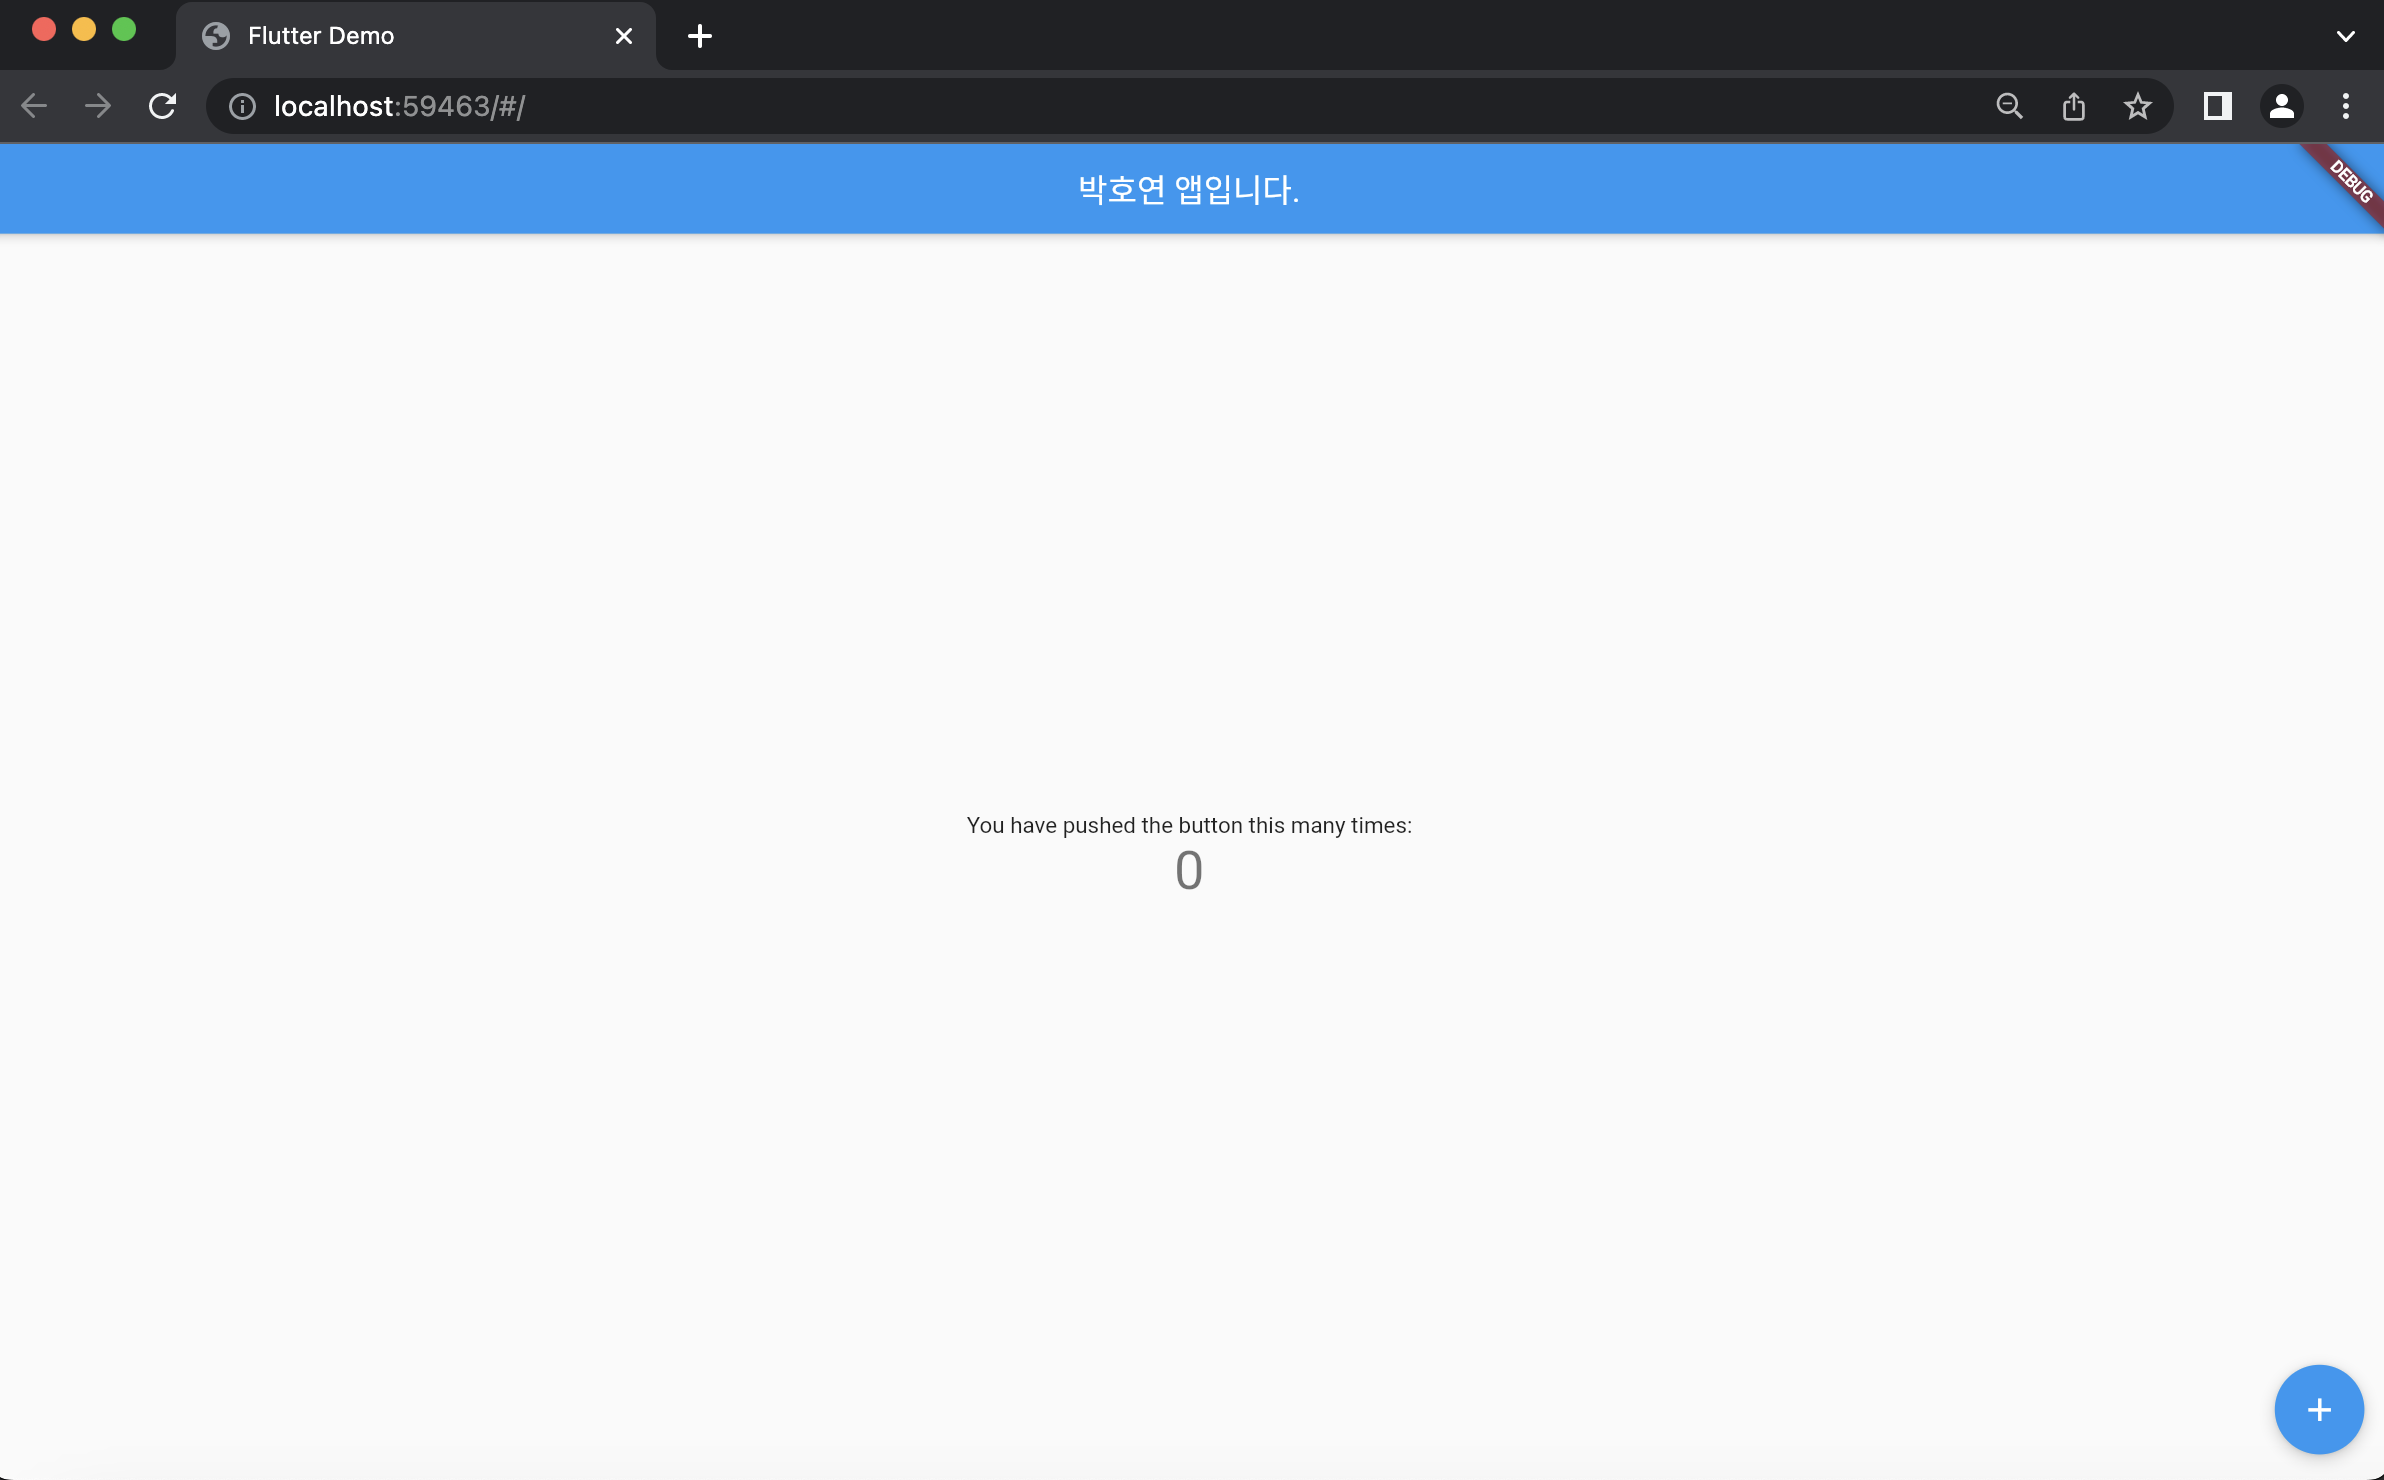
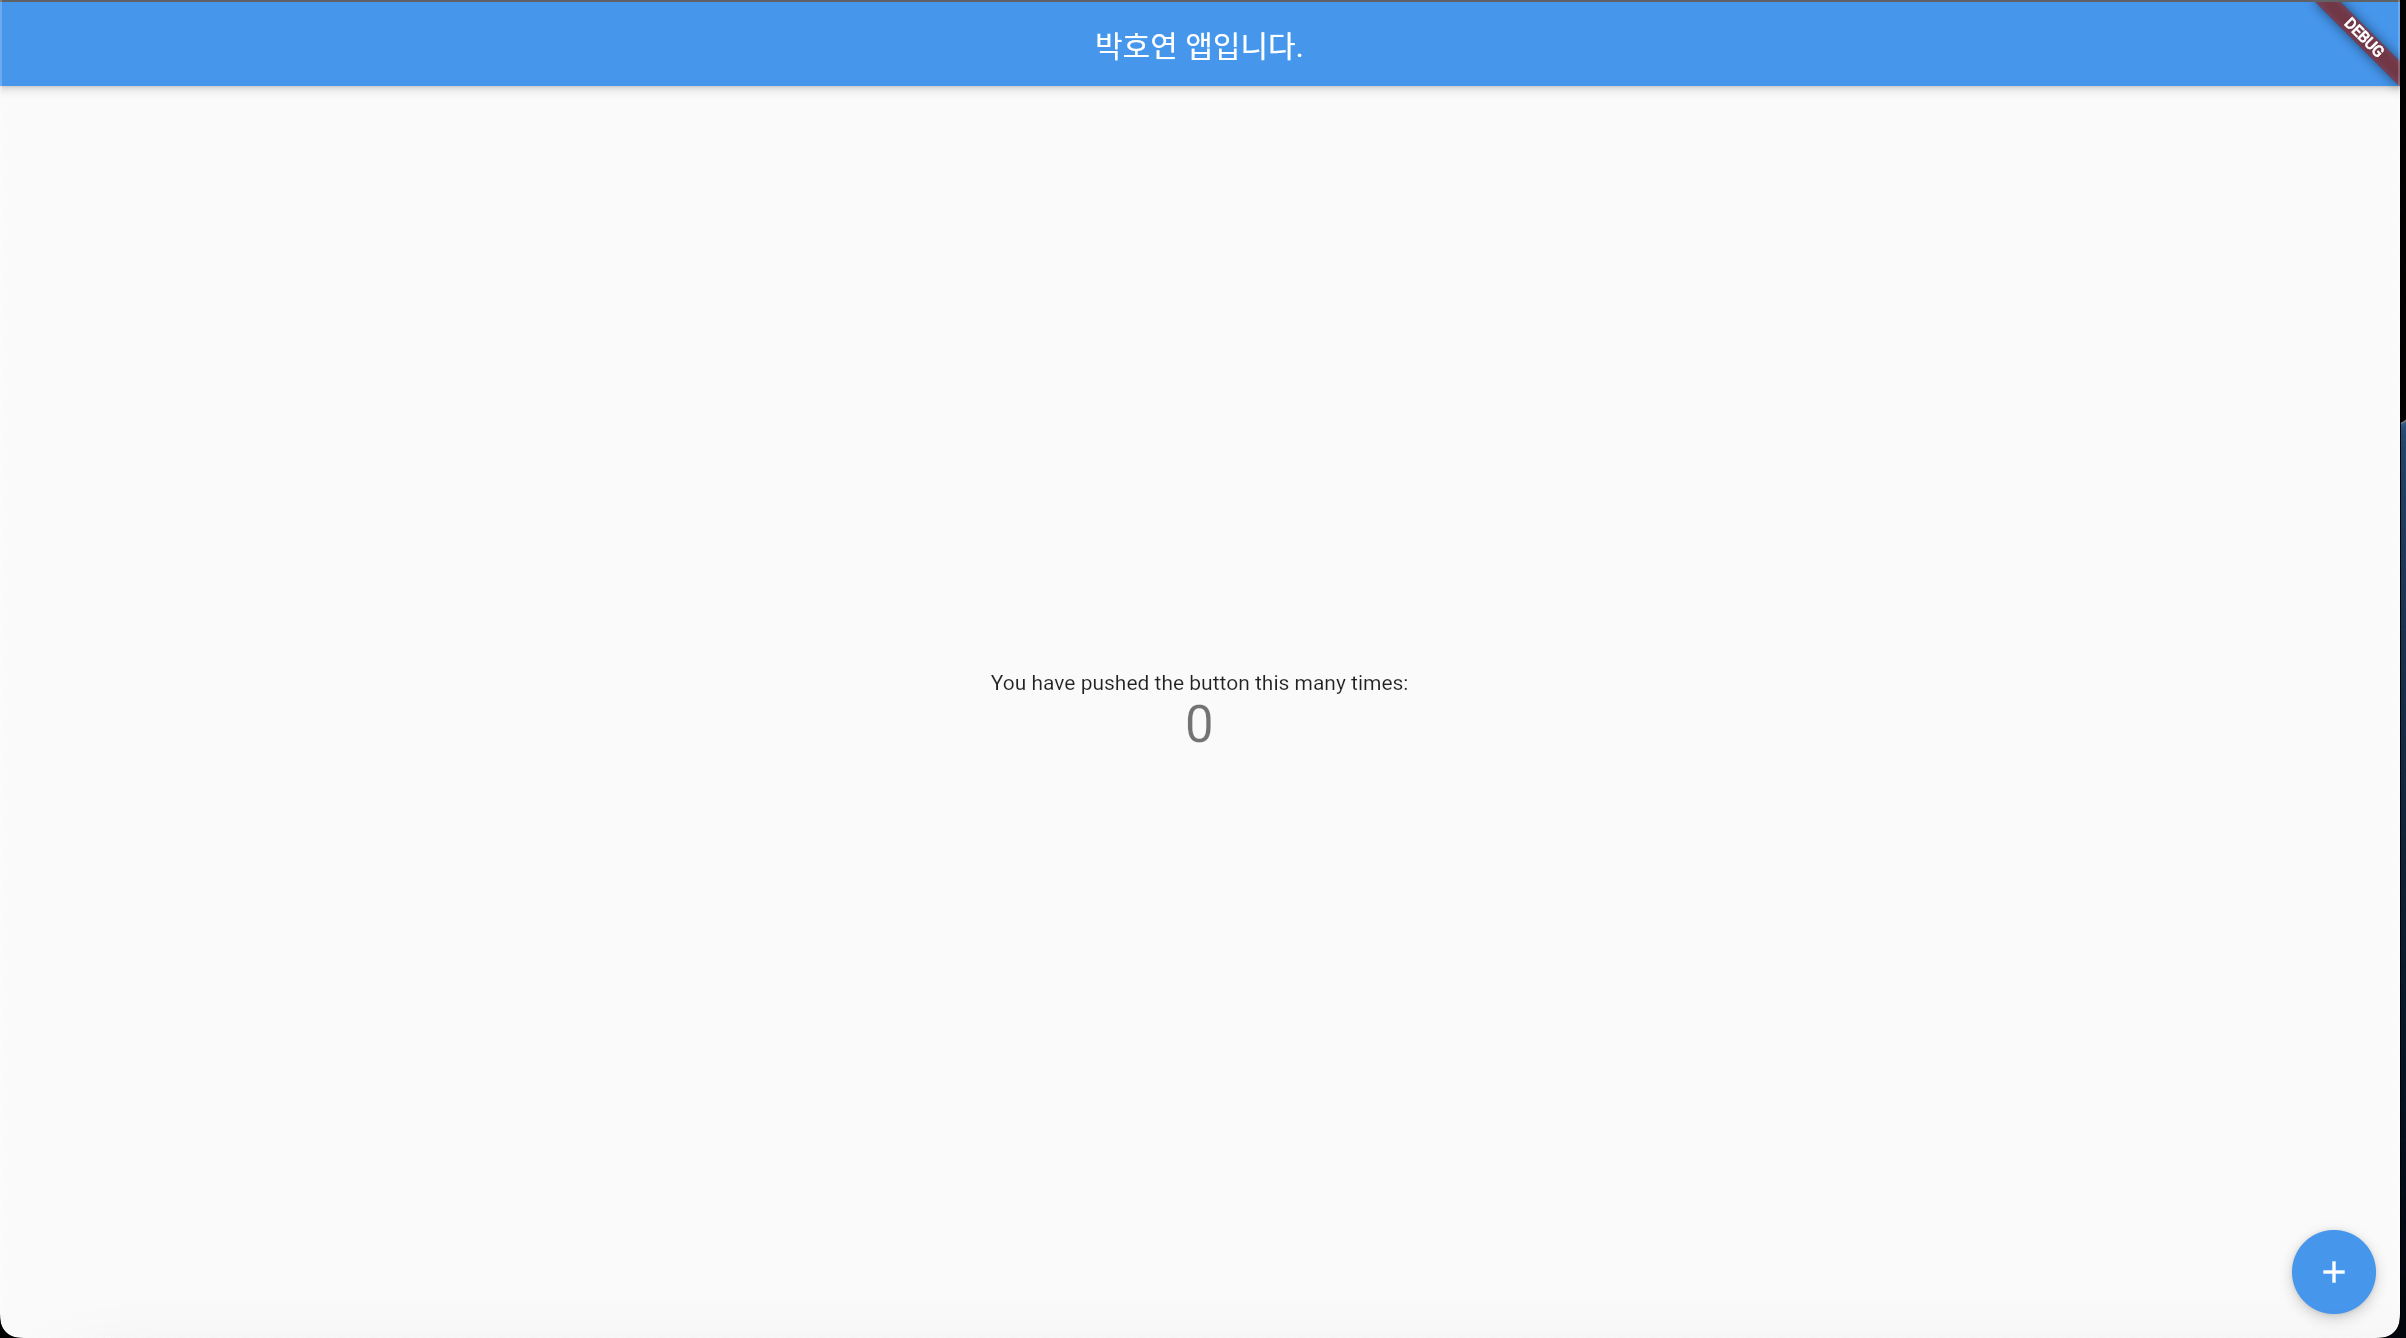
week1

Changed region(s): [[0.0, 0.0, 1.0, 1.0], [0.4035, 0.5516, 0.5898, 0.5822], [0.4035, 0.4903, 0.5898, 0.5209]]

diff --git a/lib/main.dart b/lib/main.dart
@@ -11,7 +11,7 @@ class MyApp extends StatelessWidget {
   @override
   Widget build(BuildContext context) {
     return MaterialApp(
-      title: 'Flutter Demo',
+      title: 'eos_chatting_apps',
       theme: ThemeData(
         // This is the theme of your application.
         //
